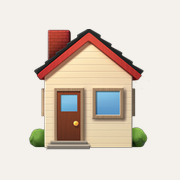
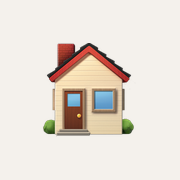
圖示 emoji 縮到約 52%，與其他小工具一致；左上角改用 🏠

Changed region(s): [[0.1389, 0.1389, 0.8333, 0.8333]]

diff --git a/index.html b/index.html
@@ -26,7 +26,7 @@
 <body>
 <div id="app">
   <header id="top">
-    <button id="btnProj" class="ghost proj" title="切換空間"><span class="pico">⌂</span><span id="projName"></span><span class="caret">▾</span></button>
+    <button id="btnProj" class="ghost proj" title="切換空間"><span class="pico">🏠</span><span id="projName"></span><span class="caret">▾</span></button>
     <div class="seg" id="viewSeg"><button data-v="2d" class="on">2D</button><button data-v="3d">3D</button></div>
     <span class="sp"></span>
     <button id="btnUndo" class="ghost icon" title="復原 ⌘Z" disabled>↶</button>

diff --git a/style.css b/style.css
@@ -43,7 +43,7 @@ header#top {
 }
 .proj { font-weight: 650; font-size: 15px; max-width: 46vw; overflow: hidden; }
 .proj #projName { overflow: hidden; text-overflow: ellipsis; }
-.proj .pico { font-size: 17px; color: var(--accent); }
+.proj .pico { font-size: 16px; line-height: 1; }
 .proj .caret { color: var(--mute); font-size: 11px; }
 
 /* 主要區域 */
